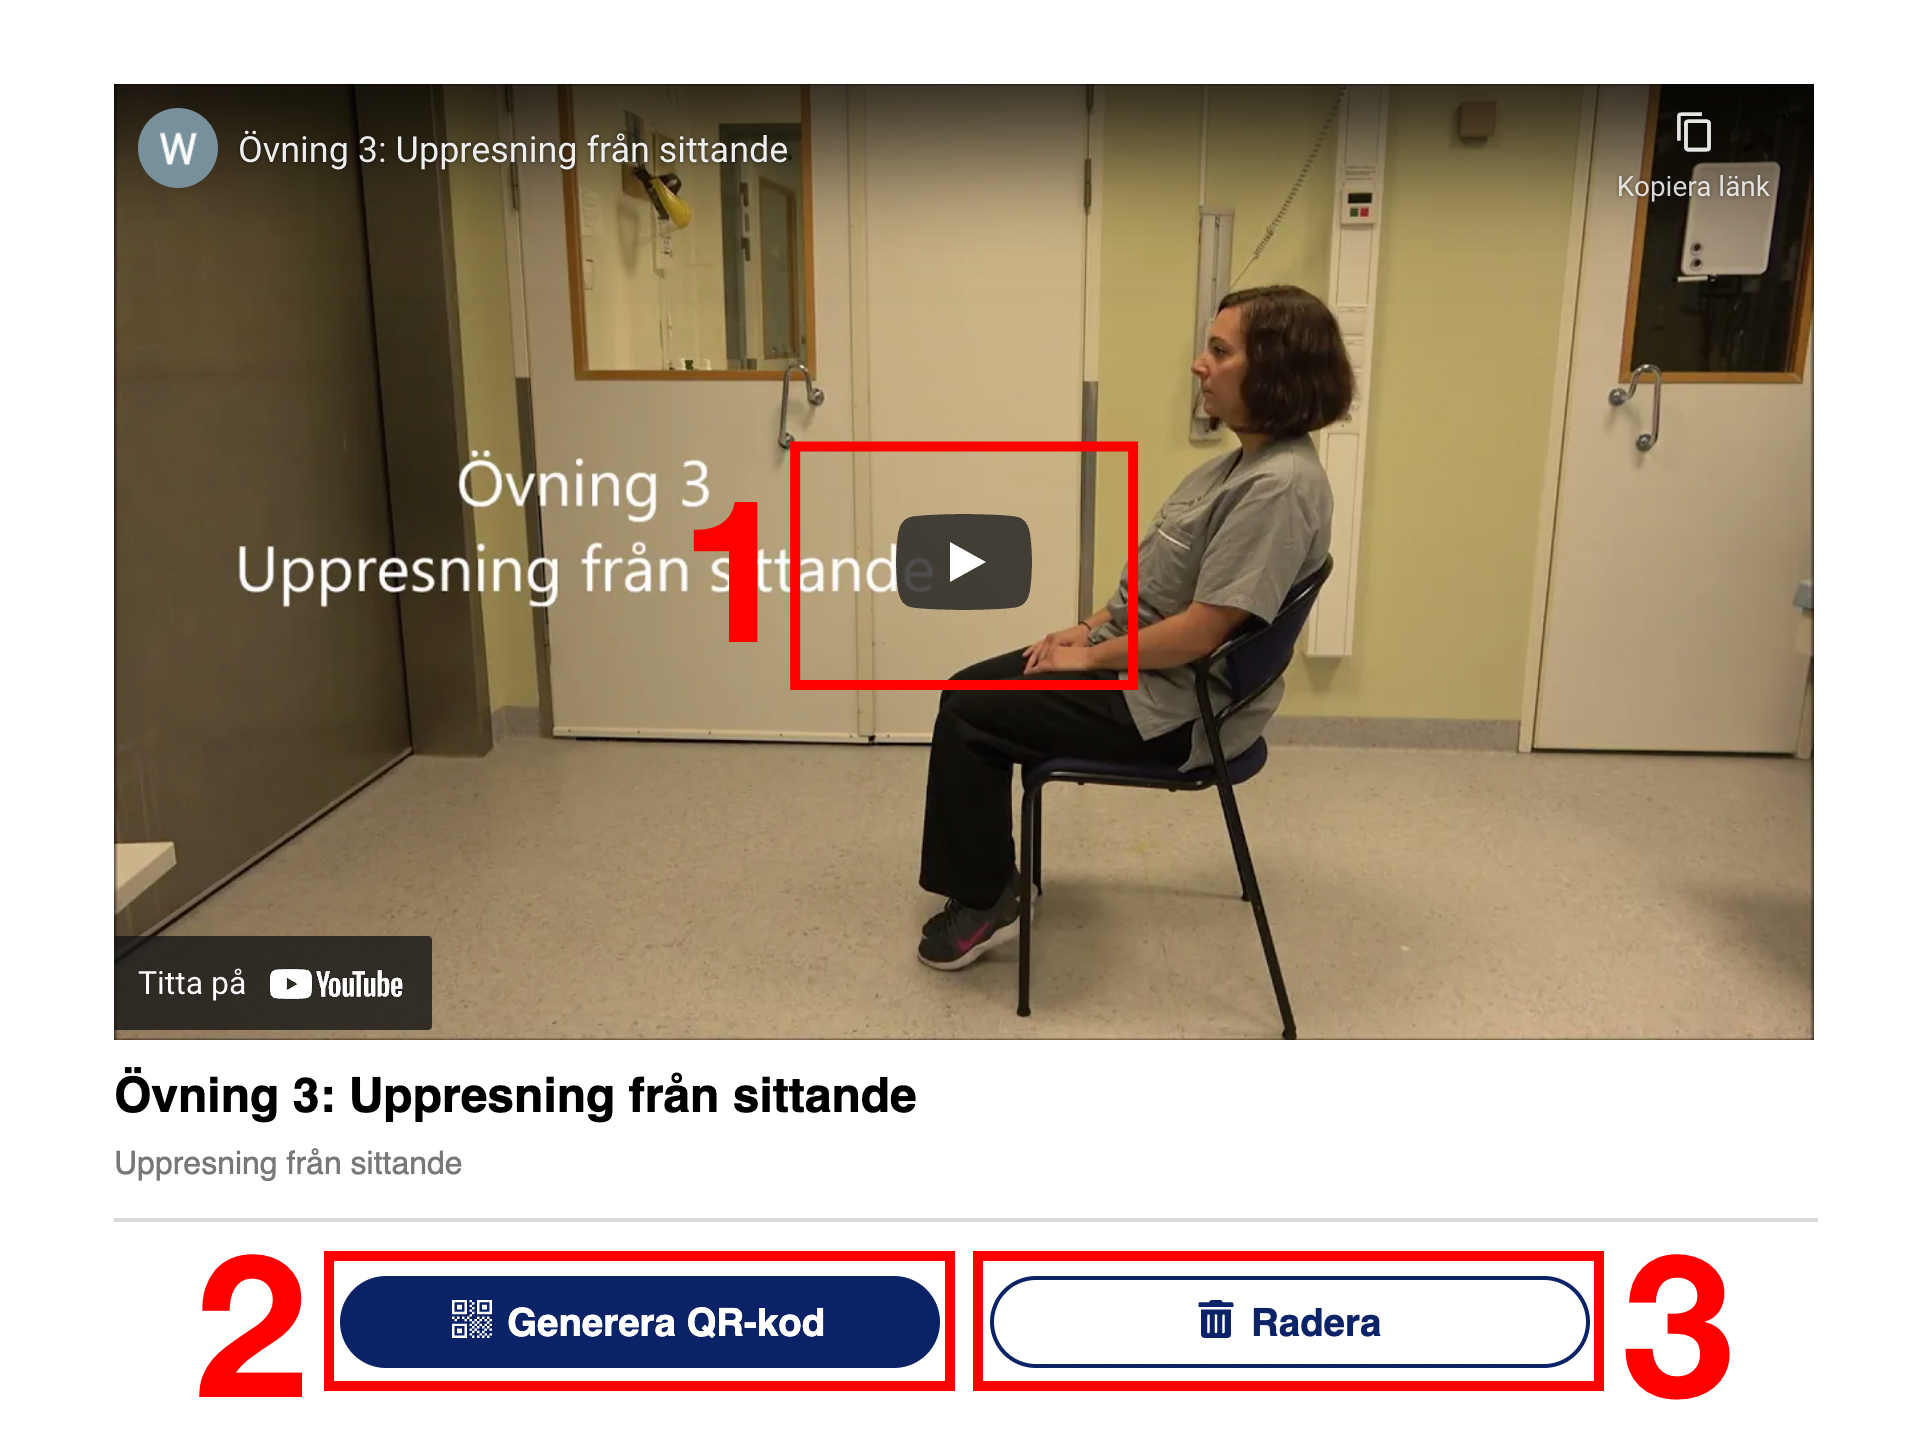
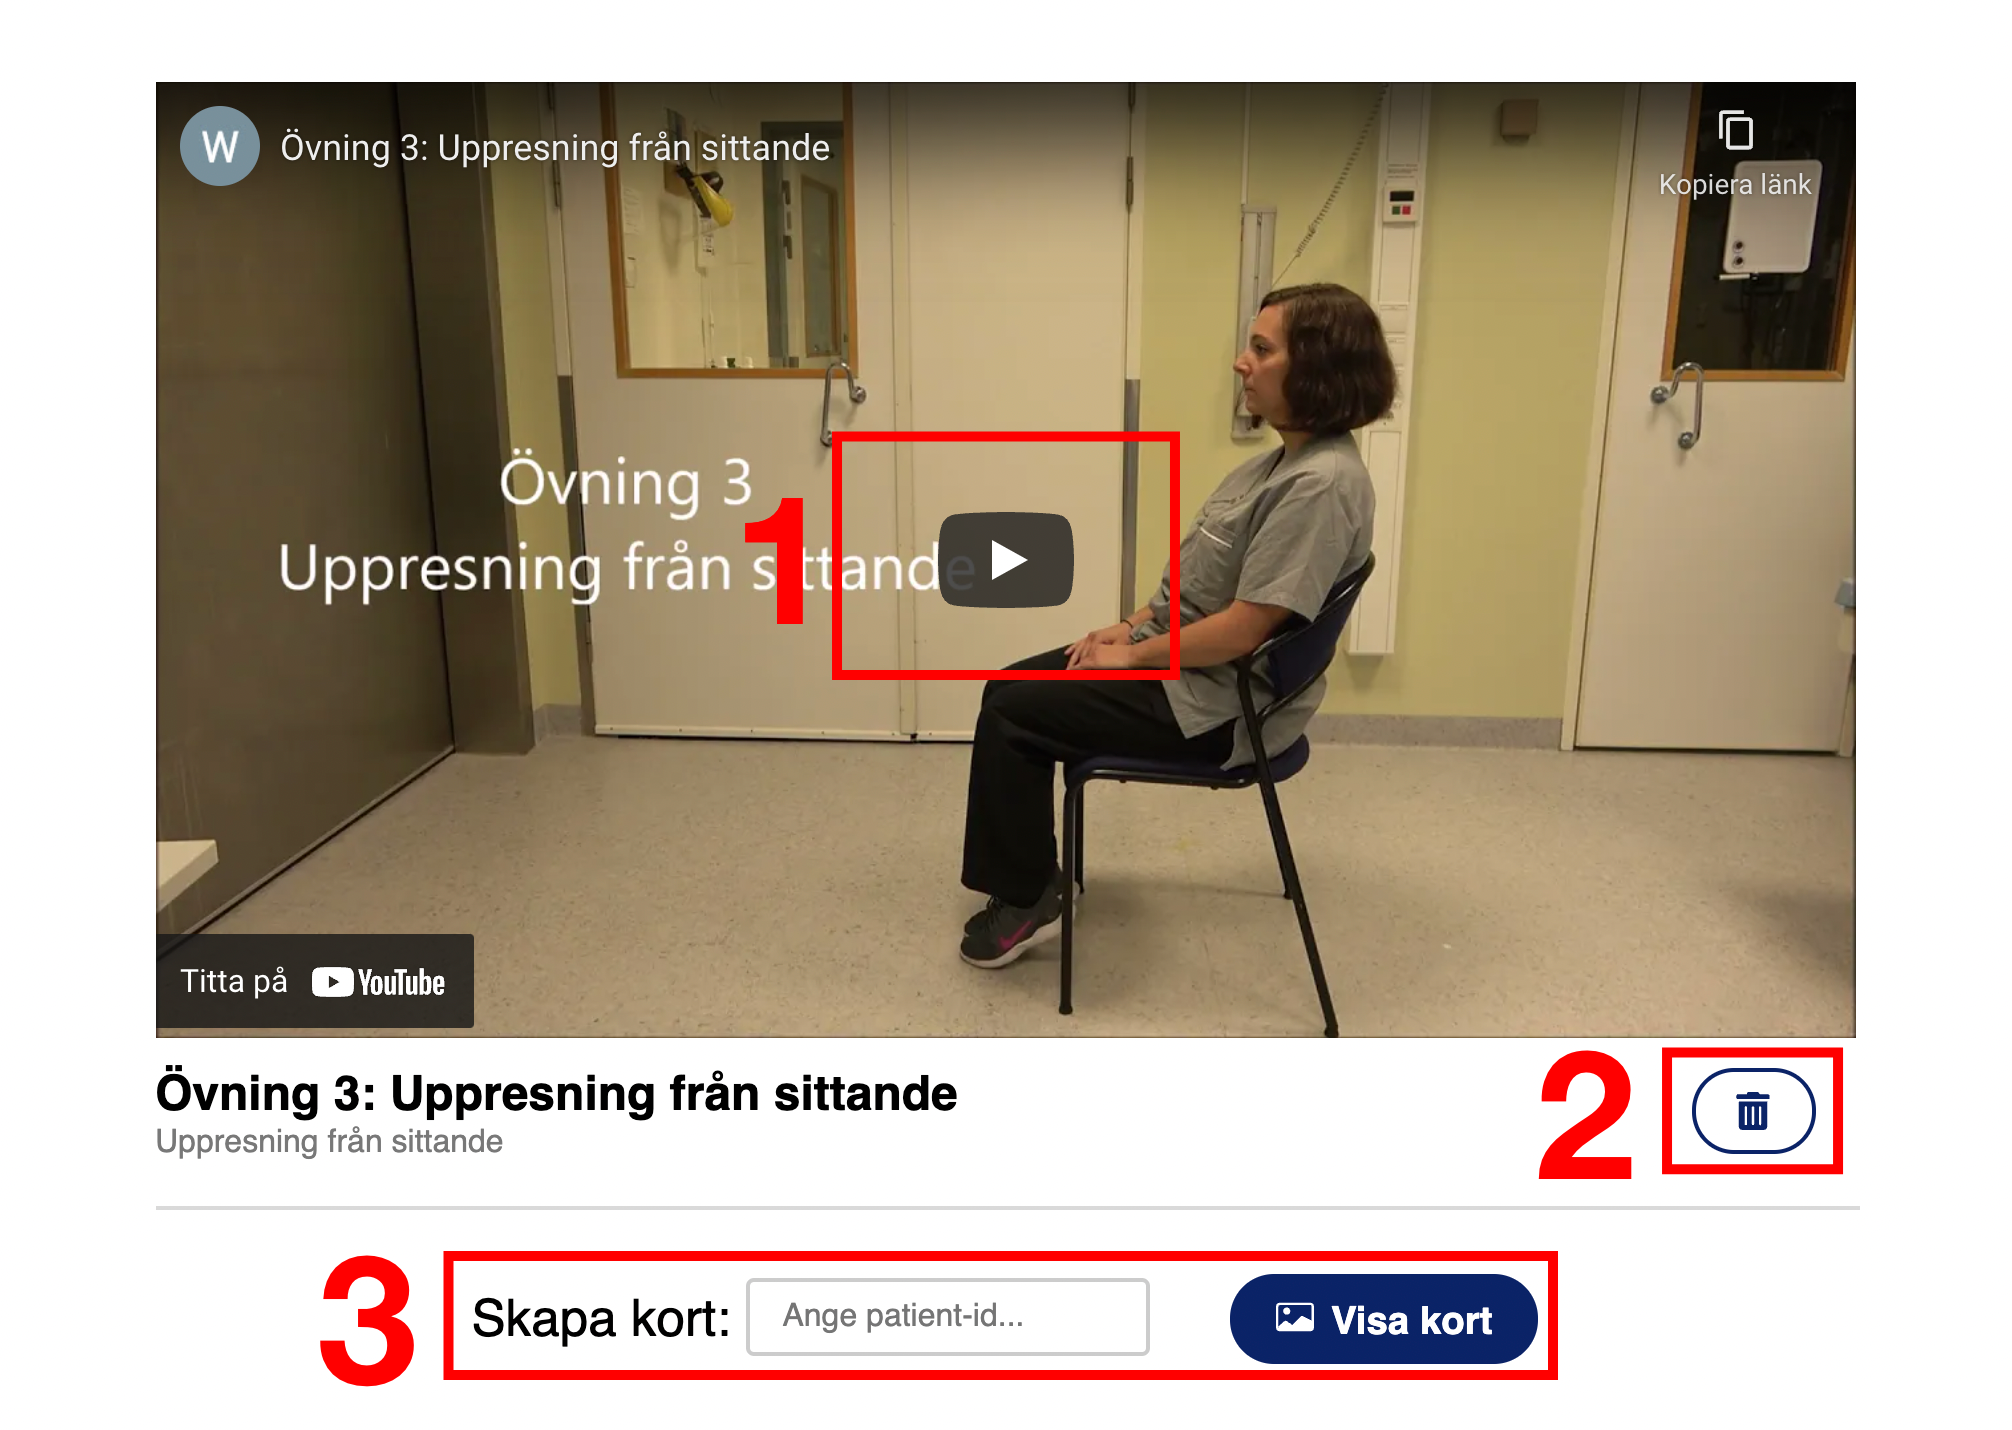
Update visa övning and show video

diff --git a/client/src/pages/admin/Video.js b/client/src/pages/admin/Video.js
@@ -1,5 +1,5 @@
-import React, { useState, useEffect, Children } from "react";
-import { Link, useHistory } from "react-router-dom";
+import React, { useState, useEffect } from "react";
+import { useHistory } from "react-router-dom";
 import styled from "styled-components";
 import { useParams } from "react-router-dom";
 import { Confirm } from "react-st-modal";
@@ -17,19 +17,33 @@ import AdminLayout from "../../components/admin/AdminLayout";
 import Button from "../../components/common/Button";
 import ReactPlayer from "../../components/common/ReactPlayer";
 
-const handleSubmit = async (vid) => {
-  const patient = document.getElementById("userInput").value.trim();
-  if (!patient) {
-    document.getElementById("userInput").style.borderColor = "#E83544";
-    return;
+const Wrapper = styled.div`
+  display: flex;
+  flex-direction: column;
+  max-width: 768px;
+  margin: 0 auto;
+  gap: 10px;
+  padding: 15px 10px 0 10px;
+  @media (min-width: 769px) {
+    flex-direction: row;
+    padding: 15px 0 0 0;
   }
-  if (!(await getOnePatient(patient)).data) {
-    document.getElementById("userInput").style.borderColor = "#E83544";
-    return;
+  @media (min-width: 850px) {
+    padding: 15px 0 0 0;
+    max-width: 850px;
   }
-  window.location = `/admin/exercise/qrpreview/${vid}/${patient}`;
-  document.getElementById("userInput").style.borderColor = "green";
-};
+`;
+
+const Left = styled.div`
+  flex: 2;
+`;
+
+const Right = styled.div`
+  text-align: right;
+  @media (min-width: 769px) {
+    padding: 0 20px;
+  }
+`;
 
 const TextContainer = styled.div`
   display: flex;
@@ -64,23 +78,50 @@ const StyledDivider = styled.hr`
   border-color: #d9d9d9;
 `;
 
+const Wrapper2 = styled.div`
+  display: flex;
+  flex-direction: row;
+  justify-content: center;
+  align-items: baseline;
+  flex-wrap: wrap;
+  gap: 0.5em;
+  margin-top: 2em;
+  margin-bottom: 2em;
+  @media (min-width: 769px) {
+  }
+  @media (min-width: 850px) {
+  }
+`;
+
+const StyledParagraph = styled.p`
+  font-size: 1.6em;
+`;
+
+const InputContainer = styled.div``;
+
 const Input = styled(UserInput)`
-  width: 40%;
+  max-width: 400px;
 `;
 
 const ButtonContainer = styled.div`
-  display: flex;
-  flex-wrap: wrap;
-  margin: 0 auto;
-  max-width: 640px;
-  justify-content: space-around;
-  min-height: 100px;
-  align-content: center;
-  gap: 10px;
-  @media (min-width: 769px) {
-    height: 100px;
+  @media (min-width: 530px) {
+    margin-left: 2em;
   }
 `;
+
+const handleSubmit = async (vid) => {
+  const patient = document.getElementById("userInput").value.trim();
+  if (!patient) {
+    document.getElementById("userInput").style.borderColor = "#E83544";
+    return;
+  }
+  if (!(await getOnePatient(patient)).data) {
+    document.getElementById("userInput").style.borderColor = "#E83544";
+    return;
+  }
+  window.location = `/admin/exercise/qrpreview/${vid}/${patient}`;
+  document.getElementById("userInput").style.borderColor = "green";
+};
 
 const Video = () => {
   let history = useHistory();
@@ -146,46 +187,61 @@ const Video = () => {
   return (
     <AdminLayout>
       <ReactPlayer {...playerProps} />
-      {isTitleAndDescFetched && (
-        <TextContainer>
-          <StyledVideoTitle>{title}</StyledVideoTitle>
-          <StyledVideoText>{description}</StyledVideoText>
-          <StyledDivider />
-        </TextContainer>
-      )}
 
-      <ButtonContainer>
-        <Input list="userList" id="userInput" placeholder="Patient..." />
-        <CustomDatalist id="userList">
-          {patientsActive
-            .filter((patient) => {
-              return patient.statistics.some((stats) => {
-                return stats.vidId.includes(videoId);
-              });
-            })
-            .map((patient) => (
-              <option key={patient._id} value={patient.name} />
-            ))}
-        </CustomDatalist>
-        <select id="selectedPatient" />
-        <Button
-          type="submit"
-          icon="imageCard"
-          onClick={() => {
-            handleSubmit(videoId);
-          }}
-        >
-          Generera Kort
-        </Button>
-        <Button
-          onClick={customDeleteVideo}
-          icon="trash"
-          width="fixed"
-          outlinedTheme
-        >
-          Radera
-        </Button>
-      </ButtonContainer>
+      <Wrapper>
+        {isTitleAndDescFetched && (
+          <Left>
+            <StyledVideoTitle>{title}</StyledVideoTitle>
+            <StyledVideoText>{description}</StyledVideoText>
+          </Left>
+        )}
+
+        <Right>
+          <Button
+            onClick={customDeleteVideo}
+            icon="trash"
+            outlinedTheme
+          ></Button>
+        </Right>
+      </Wrapper>
+      <TextContainer>
+        <StyledDivider />
+      </TextContainer>
+      <Wrapper2>
+        <StyledParagraph>Skapa kort:</StyledParagraph>
+
+        <InputContainer>
+          <Input
+            list="userList"
+            id="userInput"
+            placeholder="Ange patient-id..."
+          />
+          <CustomDatalist id="userList">
+            {patientsActive
+              .filter((patient) => {
+                return patient.statistics.some((stats) => {
+                  return stats.vidId.includes(videoId);
+                });
+              })
+              .map((patient) => (
+                <option key={patient._id} value={patient.name} />
+              ))}
+          </CustomDatalist>
+          <select id="selectedPatient" />
+        </InputContainer>
+
+        <ButtonContainer>
+          <Button
+            type="submit"
+            icon="imageCard"
+            onClick={() => {
+              handleSubmit(videoId);
+            }}
+          >
+            Visa kort
+          </Button>
+        </ButtonContainer>
+      </Wrapper2>
     </AdminLayout>
   );
 };

diff --git a/client/src/pages/admin/Guide.js b/client/src/pages/admin/Guide.js
@@ -13,6 +13,7 @@ import sok_patient from "../../components/images/Guide/sok_patient.png";
 import statistik from "../../components/images/Guide/statistik.png";
 import sok_ovning from "../../components/images/Guide/sok_ovning.png";
 import visa_ovning from "../../components/images/Guide/visa_ovning.png";
+import ladda_upp_ovning from "../../components/images/Guide/ladda_upp_ovning.png";
 
 const GuideWrapper = styled.div`
   display: grid;
@@ -287,20 +288,19 @@ const Guide = () => {
             </HashLink>
           </GuideItem>
           <GuideItem>
-            <GuideTitle id="ladda-upp-ovning">
-              Ladda upp övning - ** Inväntar färdig sida **
-            </GuideTitle>
-            <ListItem>Instruktion</ListItem>
-            <StyledParagraph></StyledParagraph>
-            <ListItem>Instruktion</ListItem>
-            <StyledParagraph></StyledParagraph>
-            <ListItem>Instruktion</ListItem>
-            <StyledParagraph></StyledParagraph>
-            <ListItem>Instruktion</ListItem>
-            <StyledParagraph></StyledParagraph>
-            <StyledImg></StyledImg>
-            <br />
-            Bild SAKNAS
+            <GuideTitle id="ladda-upp-ovning">Ladda upp övning</GuideTitle>
+            Systemet tillåter 6 uppladdningar per dag.
+            <ListItem>Titel</ListItem>
+            <StyledParagraph>Ange namn på övning.</StyledParagraph>
+            <ListItem>Benämning</ListItem>
+            <StyledParagraph>Ange beskrivande text.</StyledParagraph>
+            <ListItem>Välj fil</ListItem>
+            <StyledParagraph>Lägg till fil för övning.</StyledParagraph>
+            <ListItem>Ladda upp</ListItem>
+            <StyledParagraph>
+              Tryck på knappen "Ladda upp ny övning" för att ladda upp video.
+            </StyledParagraph>
+            <StyledImg src={ladda_upp_ovning}></StyledImg>
             <HashLink smooth to={"#top"}>
               <StyledButton>Till toppen</StyledButton>
             </HashLink>
@@ -331,15 +331,15 @@ const Guide = () => {
               Välj PLAY för att spela upp videon.
             </StyledParagraph>
 
-            <ListItem>Generera QR-kod</ListItem>
-            <StyledParagraph>
-              Välj "Generera QR-kod" för att skriva ut ett kort med övningens
-              namn, QR-kod och en bild på videon.{" "}
-            </StyledParagraph>
-
             <ListItem>Radera</ListItem>
             <StyledParagraph>
-              Välj radera för att ta bort en övning.
+              Välj radera för att ta bort en övning permanent.
+            </StyledParagraph>
+
+            <ListItem>Skapa kort</ListItem>
+            <StyledParagraph>
+              Skapa ett kort för utskrift till patient: Börja med att ange
+              patient-id och tryck sedan på "Visa kort".
             </StyledParagraph>
 
             <StyledImg src={visa_ovning} />
